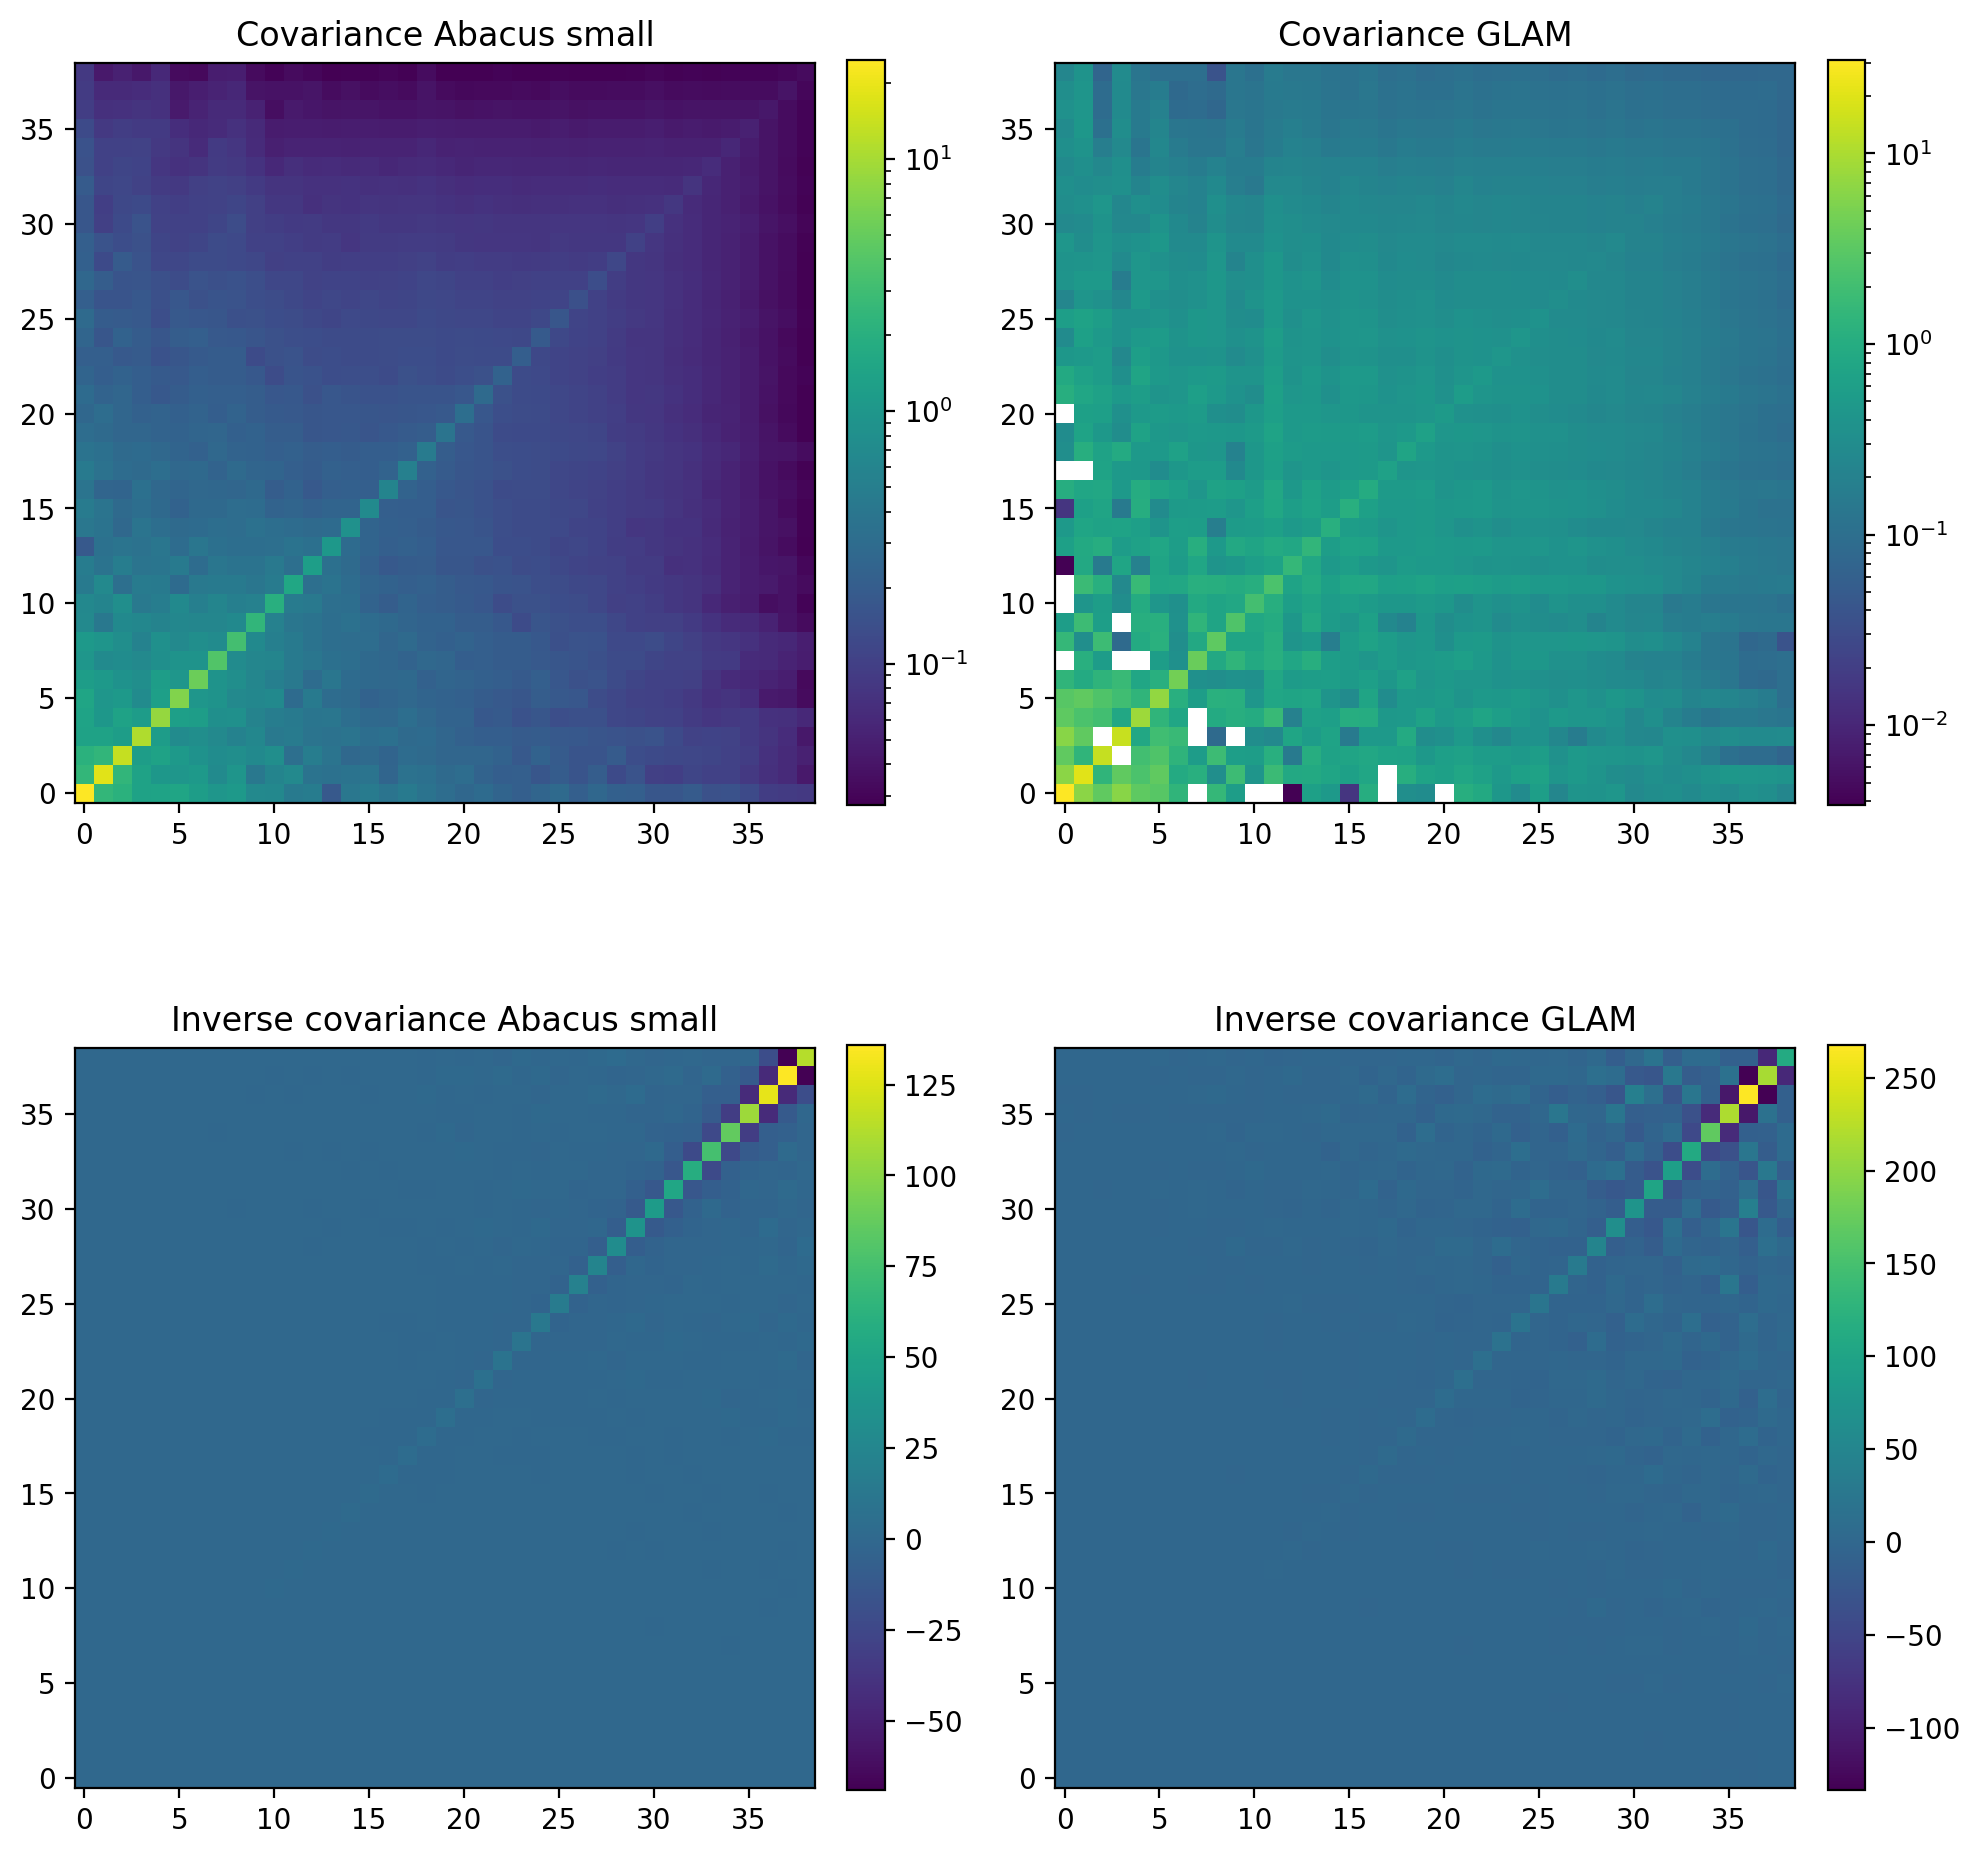
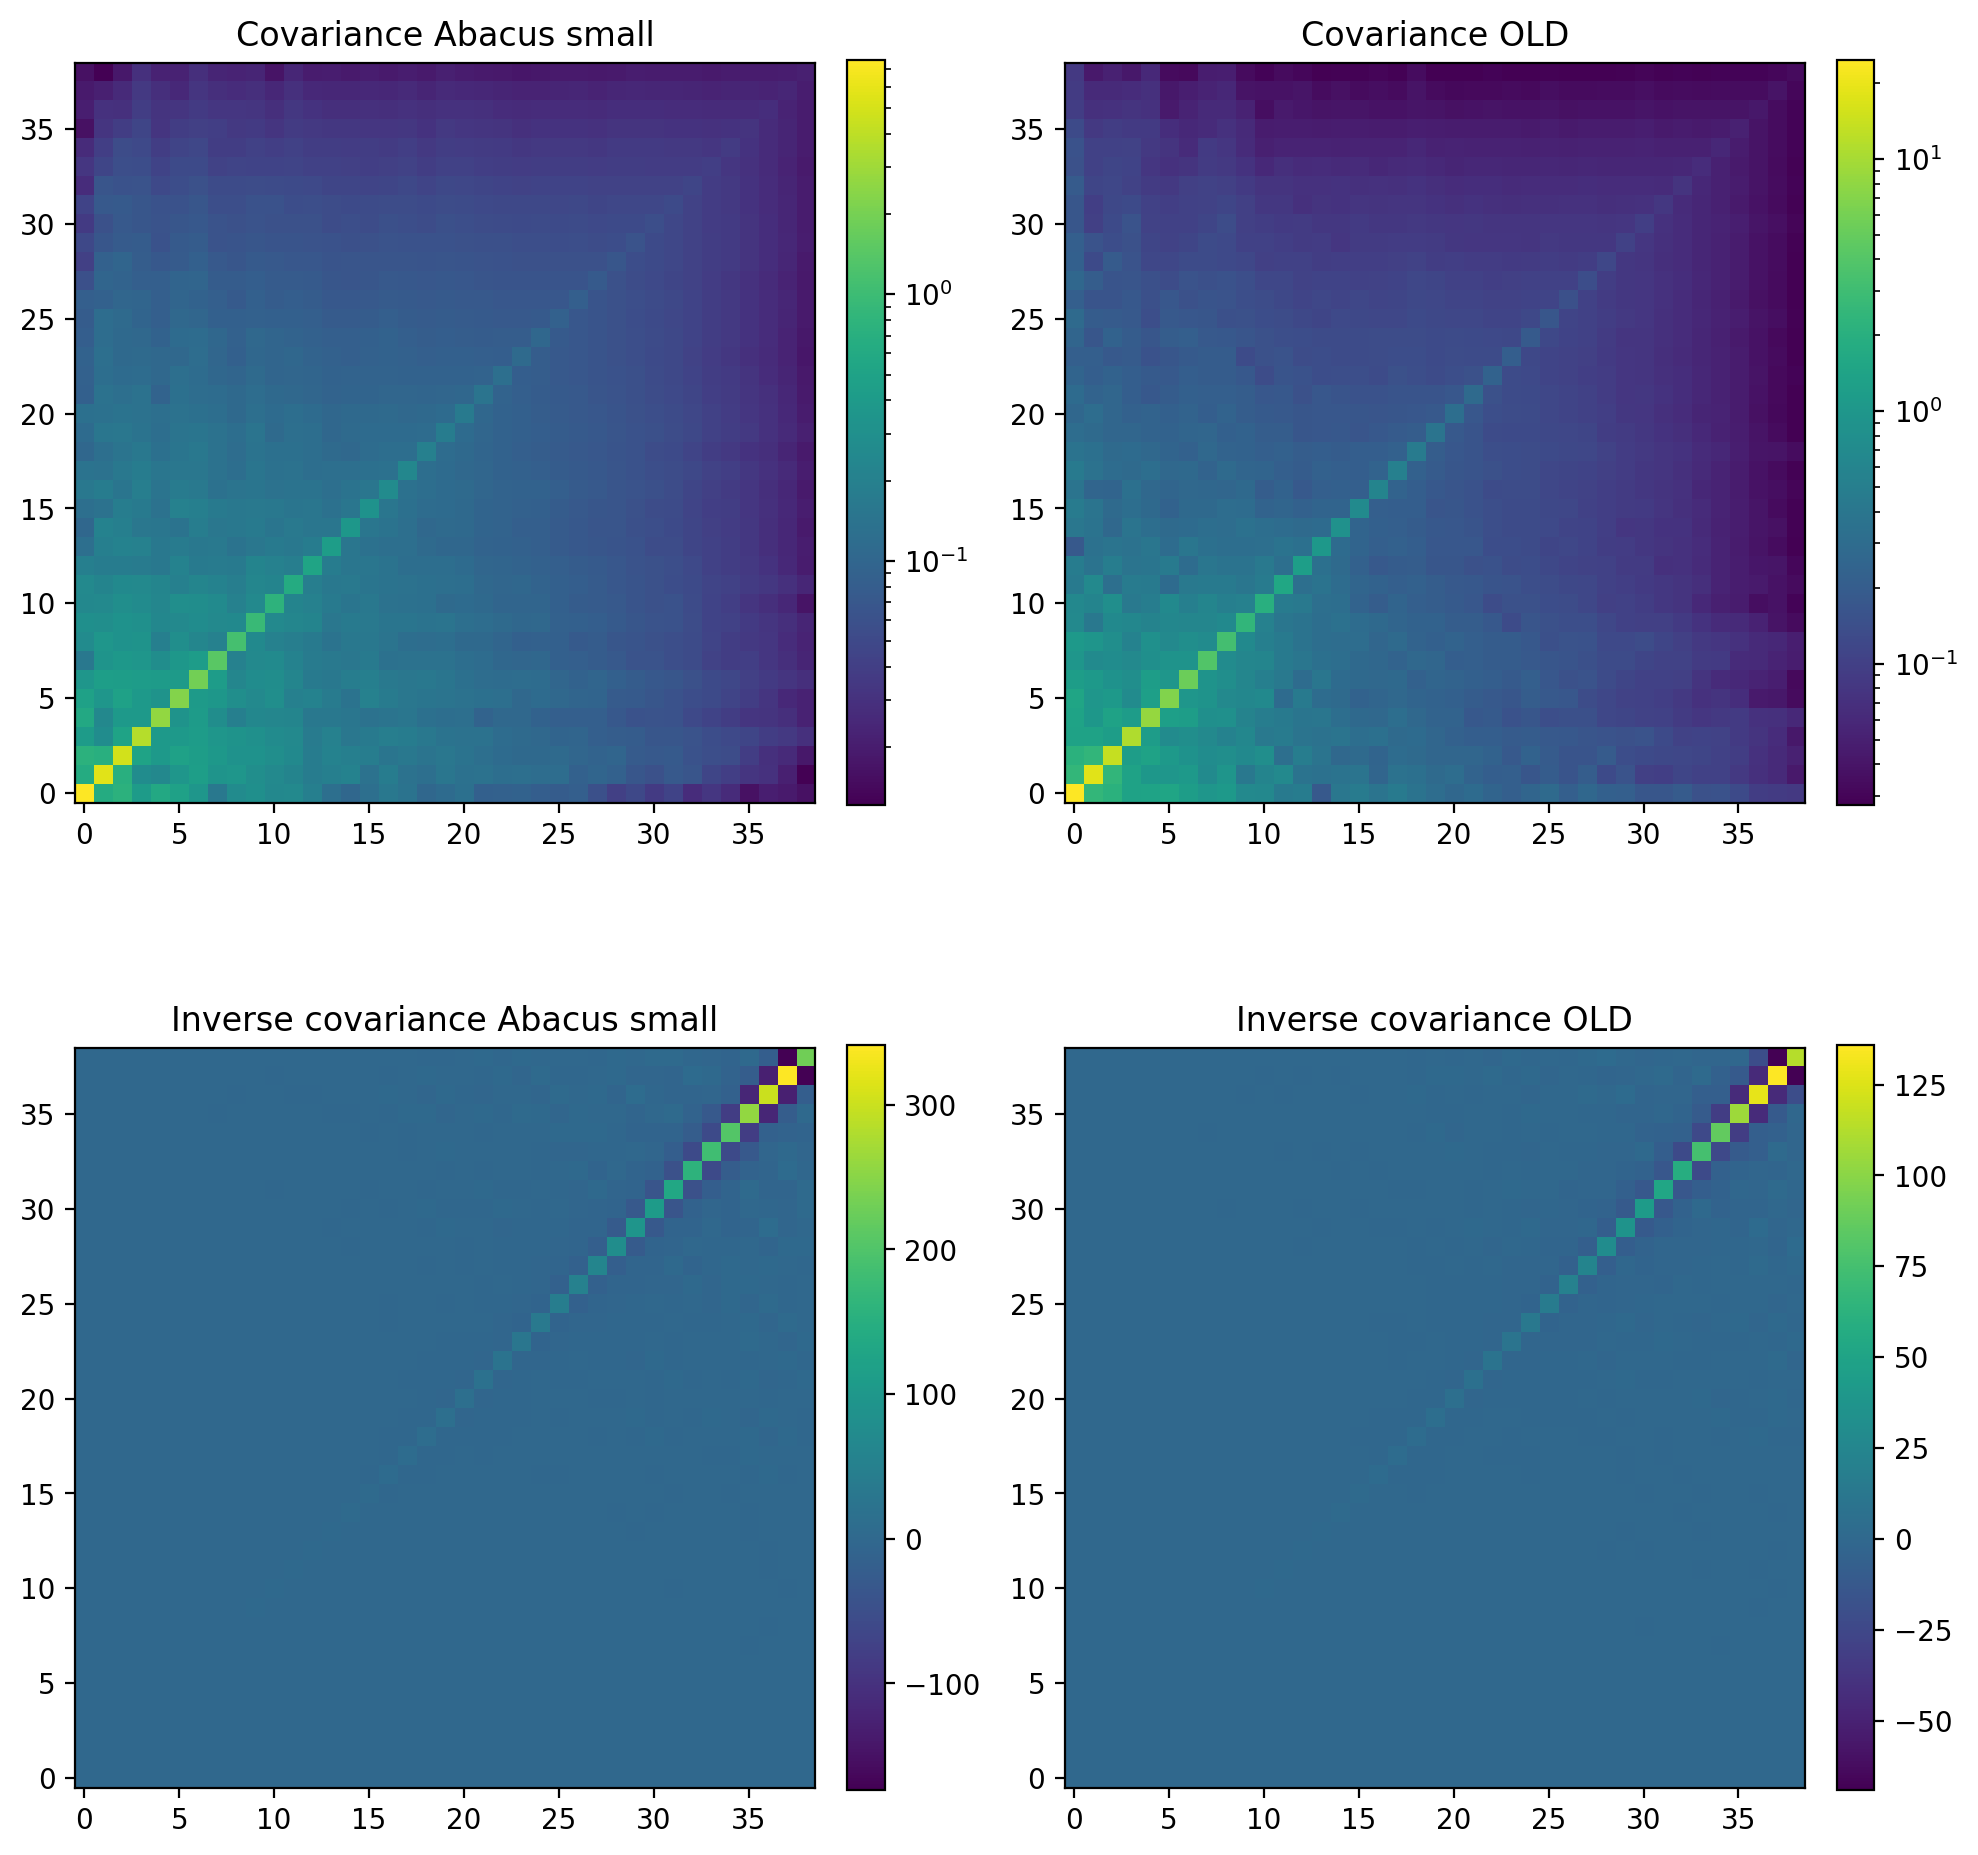
made new covariance plots

diff --git a/HaloModel/HOD_and_cosmo_emulation/small/cov_plot.py b/HaloModel/HOD_and_cosmo_emulation/small/cov_plot.py
@@ -5,6 +5,7 @@ import matplotlib.pyplot as plt
 from matplotlib.colors import LogNorm 
 from matplotlib import gridspec
 
+OLD_DATAPATH     = Path(f"/mn/stornext/d5/data/vetleav/HOD_AbacusData/OLD_inference_data")
 DATAPATH     = Path(f"/mn/stornext/d5/data/vetleav/HOD_AbacusData/inference_data")
 
 
@@ -79,8 +80,8 @@ def plot_corr(corr):
         # fig.clf()
         plt.close(fig)
 
-def compare_cov_sz_and_cov_GLAM(cov_NEW, cov_GLAM):
-    cov_inv_GLAM = get_cov_inv(cov_GLAM) # GLAM
+def compare_cov_sz_and_cov_OLD(cov_NEW, cov_OLD):
+    cov_inv_OLD = get_cov_inv(cov_OLD) # OLD
     cov_inv_NEW = get_cov_inv(cov_NEW) # SZ
 
     fig = plt.figure(figsize=(10, 10))
@@ -91,15 +92,15 @@ def compare_cov_sz_and_cov_GLAM(cov_NEW, cov_GLAM):
     ax3 = plt.subplot(gs[3])
 
     ax0.set_title("Covariance Abacus small")
-    ax1.set_title("Covariance GLAM")
+    ax1.set_title("Covariance OLD")
     ax2.set_title("Inverse covariance Abacus small")
-    ax3.set_title("Inverse covariance GLAM")
+    ax3.set_title("Inverse covariance OLD")
 
-    # im0 = ax0.imshow(np.log(cov_GLAM), origin="lower", cmap='bwr', interpolation="none")
+    # im0 = ax0.imshow(np.log(cov_OLD), origin="lower", cmap='bwr', interpolation="none")
     im0 = ax0.imshow(cov_NEW, origin="lower", norm=LogNorm())
-    im1 = ax1.imshow(cov_GLAM, origin="lower", norm=LogNorm())
+    im1 = ax1.imshow(cov_OLD, origin="lower", norm=LogNorm())
     im2 = ax2.imshow(cov_inv_NEW, origin="lower")
-    im3 = ax3.imshow(cov_inv_GLAM, origin="lower",)
+    im3 = ax3.imshow(cov_inv_OLD, origin="lower",)
     
 
     fig.colorbar(im0, fraction=0.046, pad=0.04)
@@ -121,30 +122,26 @@ def compare_cov_sz_and_cov_GLAM(cov_NEW, cov_GLAM):
         plt.close(fig)
 
 
-def check_cov(cov):
+def check_cov(cov, name):
     cond = np.linalg.cond(cov)
-    eigenvalues, _ = np.linalg.eig(cov)
-    print(f"{eigenvalues=}")
-    print(f"Condition number: {cond}")
+    print(f"Condition number for {name}: {cond}")
     print()
 
-# cov_GLAM, corr_GLAM     = np.load(f'{DATAPATH}/MGGLAM/cov_wp_fiducial.npy')
-cov_GLAM, corr_GLAM = load_cov_corr(
-    f'{DATAPATH}/MGGLAM/cov_wp_fiducial.npy', 
-    f'{DATAPATH}/MGGLAM/corrcoef_wp_fiducial.npy'
+cov_OLD, corr_OLD = load_cov_corr(
+    f'{OLD_DATAPATH}/cov_wp_small.npy', 
+    f'{OLD_DATAPATH}/corrcoef_wp_small.npy'
     )
 cov_sz, corr_sz = load_cov_corr(
     f'{DATAPATH}/cov_wp_small.npy', 
     f'{DATAPATH}/corrcoef_wp_small.npy'
     )
-cov_sz   /= 64.0 
-cov_GLAM /= 8.0
+cov_sz  /= 64.0 
+cov_OLD /= 64.0
 
-# check_cov(cov_sz)
-# check_cov(cov_GLAM)
+# check_cov(cov_sz, name="cov_sz")
+# check_cov(cov_OLD, name="cov_OLD")
 # plot_cov_cov_inv(cov_sz)
 # plot_corr(corr_sz)
-compare_cov_sz_and_cov_GLAM(cov_sz, cov_GLAM)
-# print(cov_GLAM[0])
+# compare_cov_sz_and_cov_OLD(cov_sz, cov_OLD)
 
 
